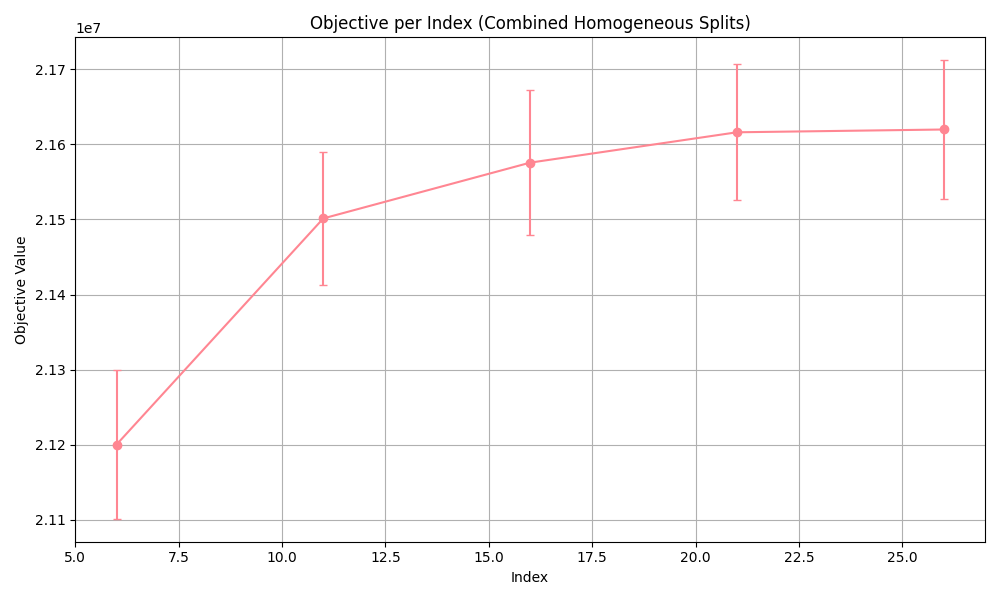
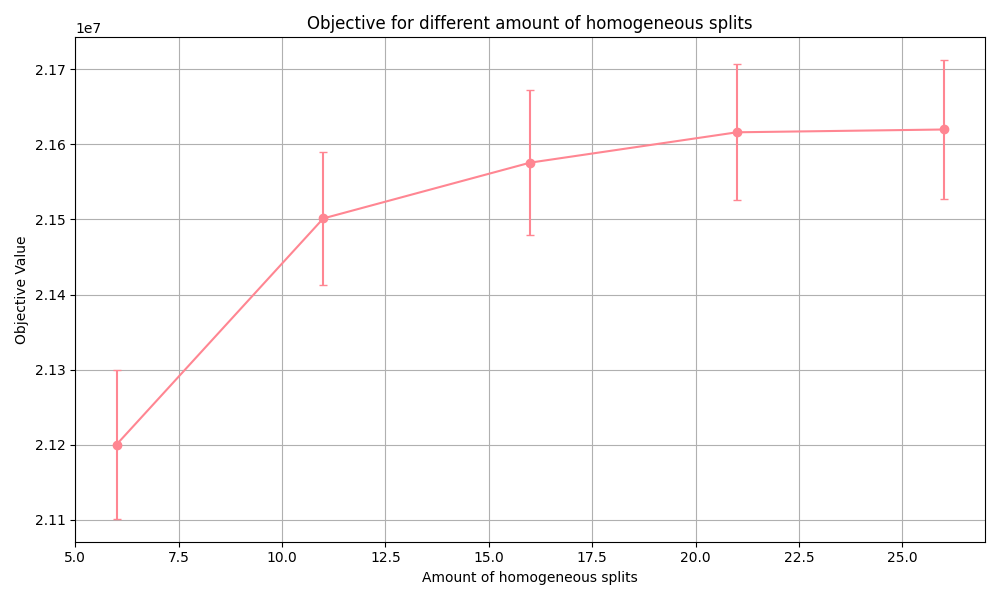
First results subsidy experiment

Changed region(s): [[0.31, 0.03, 0.775, 0.06], [0.434, 0.93, 0.62, 0.99]]

diff --git a/study_case_model/figures/subsidy_experiment/combined_results/combine_average_subsidy_production.py b/study_case_model/figures/subsidy_experiment/combined_results/combine_average_subsidy_production.py
@@ -1,0 +1,227 @@
+import os
+import pickle
+import numpy as np
+from pathlib import Path
+import matplotlib.pyplot as plt
+import os
+
+
+# ---------------------------
+# LOAD SNAPSHOT
+# ---------------------------
+def load_snapshot(filepath):
+    with open(filepath, "rb") as f:
+        return pickle.load(f)
+
+
+# ---------------------------
+# COMPUTE METRIC (EDIT THIS)
+# ---------------------------
+def compute_h2(snapshot):
+    """
+    Example: compute mean H2 production from saved variables.
+    Adjust key names if needed.
+    """
+    try:
+        h2_dict = snapshot["expressions"]["h2_production"]
+        values = list(h2_dict.values())
+        return np.mean(values), np.std(values)
+    except KeyError:
+        return None
+
+def compute_objective(snapshot):
+    """
+    Extract objective value from snapshot.
+    Assumes single objective.
+    """
+    try:
+        return list(snapshot["objectives"].values())[0]
+    except:
+        return None
+
+# ---------------------------
+# PROCESS SINGLE (dev, sub)
+# ---------------------------
+def process_dev_sub(folder):
+    """
+    Loop over all runs inside a (dev, sub) folder.
+    """
+    results = []
+
+    for run_dir in sorted(Path(folder).glob("run*/")):
+        files = list(run_dir.glob("*.pkl"))
+
+        if not files:
+            continue
+
+        snapshot = load_snapshot(files[0])
+        val, std = compute_h2(snapshot)
+        if val is not None:
+            results.append(val)
+
+
+    if len(results) == 0:
+        return None, None, 0
+
+    results = np.array(results)
+
+    mean = np.mean(results)
+    stderr = np.std(results, ddof =1) /len(results)
+
+    return mean, stderr, len(results), results
+
+
+# ---------------------------
+# MAIN LOOP
+# ---------------------------
+def analyze_experiment(base_folder):
+    summary = {}
+
+    base = Path(base_folder)
+
+    for dev_dir in sorted(base.glob("dev*/")):
+        dev_value = float(dev_dir.name.replace("dev", ""))
+
+        for sub_dir in sorted(dev_dir.glob("sub*/")):
+            sub_value = float(sub_dir.name.replace("sub", ""))
+
+            mean, stderr, n, results = process_dev_sub(sub_dir)
+
+            if n > 0:
+                summary.setdefault(dev_value, {
+                                    "subsidy": [],
+                                    "mean": [],
+                                    "se": []
+                                })
+
+                summary[dev_value]["subsidy"].append(sub_value)
+                summary[dev_value]["mean"].append(mean)
+                summary[dev_value]["se"].append(stderr)
+
+                print(f"dev={dev_value}, sub={sub_value} | mean={mean:.4f}, stderr={stderr:.4f}, n={n}")
+    return summary
+
+
+def plot_hydrogen_production(h2_dict, folder):
+    os.makedirs(folder, exist_ok=True)
+
+    plt.figure(figsize=(10, 5))
+
+    for label, stats in sorted(h2_dict.items()):
+        # sort by subsidy to ensure clean lines
+        sorted_data = sorted(
+            zip(stats["subsidy"], stats["mean"], stats["se"]),
+            key=lambda x: x[0]
+        )
+
+        subs, means, ses = zip(*sorted_data)
+
+        plt.errorbar(
+            subs,
+            means,
+            yerr=ses,
+            fmt='o-',
+            capsize=5,
+            label=f"Deviation {label}"
+        )
+
+    plt.xlabel('Subsidy (Euro/MWh)')
+    plt.ylabel('Hydrogen Production')
+    plt.title('Hydrogen Production vs Subsidy')
+    plt.grid(True)
+    plt.legend()
+
+    plt.savefig(os.path.join(folder, "hydrogen_production_vs_subsidy.png"))
+    plt.close()
+
+def analyze_objectives(base_folder):
+    summary = {}
+
+    base = Path(base_folder)
+
+    for dev_dir in sorted(base.glob("dev*/")):
+        dev_value = float(dev_dir.name.replace("dev", ""))
+
+        for sub_dir in sorted(dev_dir.glob("sub*/")):
+            sub_value = float(sub_dir.name.replace("sub", ""))
+
+            results = []
+
+            for run_dir in sorted(sub_dir.glob("run*/")):
+                files = list(run_dir.glob("*.pkl"))
+                if not files:
+                    continue
+
+                with open(files[0], "rb") as f:
+                    snapshot = pickle.load(f)
+
+                val = compute_objective(snapshot)
+                if val is not None:
+                    results.append(val)
+
+            if len(results) == 0:
+                continue
+
+            results = np.array(results)
+
+            mean = np.mean(results)
+            se = np.std(results, ddof=1) / np.sqrt(len(results))
+
+            # store in structured format
+            summary.setdefault(dev_value, {
+                "subsidy": [],
+                "mean": [],
+                "se": []
+            })
+
+            summary[dev_value]["subsidy"].append(sub_value)
+            summary[dev_value]["mean"].append(mean)
+            summary[dev_value]["se"].append(se)
+
+    return summary
+
+def plot_objective_values(objective_dict, folder):
+    os.makedirs(folder, exist_ok=True)
+
+    plt.figure(figsize=(10, 5))
+
+    for label, stats in sorted(objective_dict.items()):
+        # ensure correct ordering by subsidy
+        sorted_data = sorted(
+            zip(stats["subsidy"], stats["mean"], stats["se"]),
+            key=lambda x: x[0]
+        )
+
+        subs, means, ses = zip(*sorted_data)
+
+        plt.errorbar(
+            subs,
+            means,
+            yerr=ses,
+            fmt='o-',
+            capsize=5,
+            label=f"Deviation {label}"
+        )
+
+    plt.xlabel('Subsidy (Euro/MWh)')
+    plt.ylabel('Objective Value')
+    plt.title('Objective Value vs Subsidy')
+    plt.grid(True)
+    plt.legend()
+
+    plt.savefig(os.path.join(folder, "objective_vs_subsidy.png"))
+    plt.close()
+
+# ---------------------------
+# RUN
+# ---------------------------
+if __name__ == "__main__":
+    base_folder = "study_case_model/figures/subsidy_experiment/run_24326"
+
+    results = analyze_experiment(base_folder)
+
+    plot_hydrogen_production(results, folder="study_case_model/figures/subsidy_experiment/combined_results")
+
+    objective_dict = analyze_objectives("study_case_model/figures/subsidy_experiment/run_24326")
+
+    plot_objective_values(objective_dict, folder="study_case_model/figures/subsidy_experiment/combined_results")

diff --git a/study_case_model/figures/examine_speed/combined_runs/combine_runs_splits.py b/study_case_model/figures/examine_speed/combined_runs/combine_runs_splits.py
@@ -94,9 +94,9 @@ def plot_results(csv_path, folder="figures/"):
         capsize=3
     )
 
-    plt.xlabel("Index")
+    plt.xlabel("Amount of homogeneous splits")
     plt.ylabel("Solve Time (seconds)")
-    plt.title("Solve Time per Index (Combined Homogeneous Splits)")
+    plt.title("Solve Time for different amount of homogeneous splits")
     plt.grid(True)
     plt.tight_layout()
 
@@ -122,9 +122,9 @@ def plot_results(csv_path, folder="figures/"):
         capsize=3
     )
 
-    plt.xlabel("Index")
+    plt.xlabel("Amount of homogeneous splits")
     plt.ylabel("Objective Value")
-    plt.title("Objective per Index (Combined Homogeneous Splits)")
+    plt.title("Objective for different amount of homogeneous splits")
     plt.grid(True)
     plt.tight_layout()
 

diff --git a/study_case_model/figures/examine_speed/combined_runs/combined_runs_density_bounds.py b/study_case_model/figures/examine_speed/combined_runs/combined_runs_density_bounds.py
@@ -79,9 +79,9 @@ def load_and_plot_series(csv_path, folder="figures/"):
     # optionally, add error bars as thin black lines (like little caps)
     plt.errorbar(x, means, yerr=stderrs, fmt='none', ecolor="#FF8692", capsize=3)
 
-    plt.xlabel("Index")
+    plt.xlabel("Amount of upperbounds")
     plt.ylabel("Mean Solve Time (seconds)")
-    plt.title("Solve Time per Index")
+    plt.title("Solve Time for different amount of upperbounds")
     plt.grid(True)
     plt.tight_layout()
 